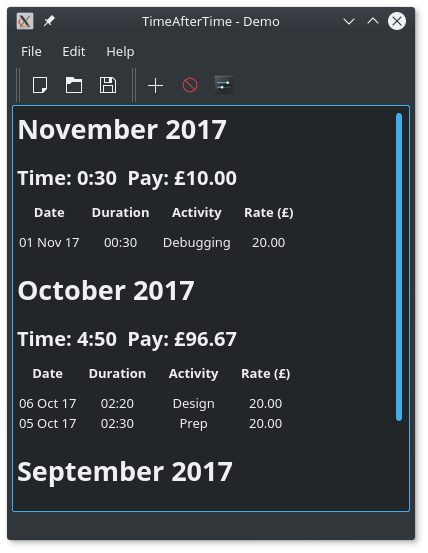
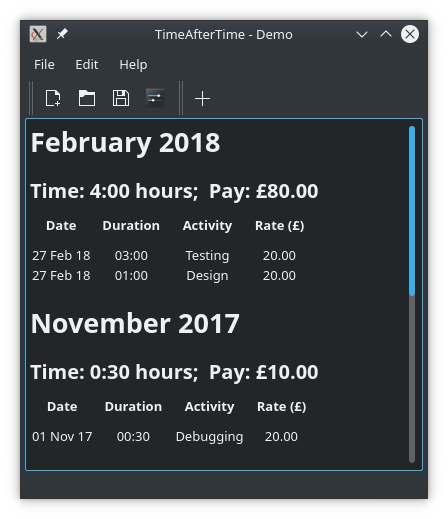
Updating readme

Changed region(s): [[0.0, 0.0, 1.0, 0.9865], [0.5771, 0.8324, 0.6682, 0.8632], [0.486, 0.1233, 0.5467, 0.1541]]

diff --git a/README.md b/README.md
@@ -6,7 +6,7 @@ GPL v3. See https://www.gnu.org/licenses/gpl-3.0.en.html
 ## What is it?
 TimeAfterTime allows you to create and manage timesheets. 
 
-![Timesheet](screenshots/timesheet0.png)
+![Timesheet-hours](screenshots/timesheet0.png)  ![Timesheet-days](screenshots/timesheet2.png)
 
 
 ## What do I need?
@@ -31,6 +31,9 @@ For example, the following adds the October entries in the screenshot above:
 
 TimeAfterTime will group your hours by month, with most recent at the 
 top. It also displays the total time and pay for that month.
+
+The timesheet name and payment details can be updated in the `Edit settings` 
+dialog.
 
 ### Managing timesheets
 
